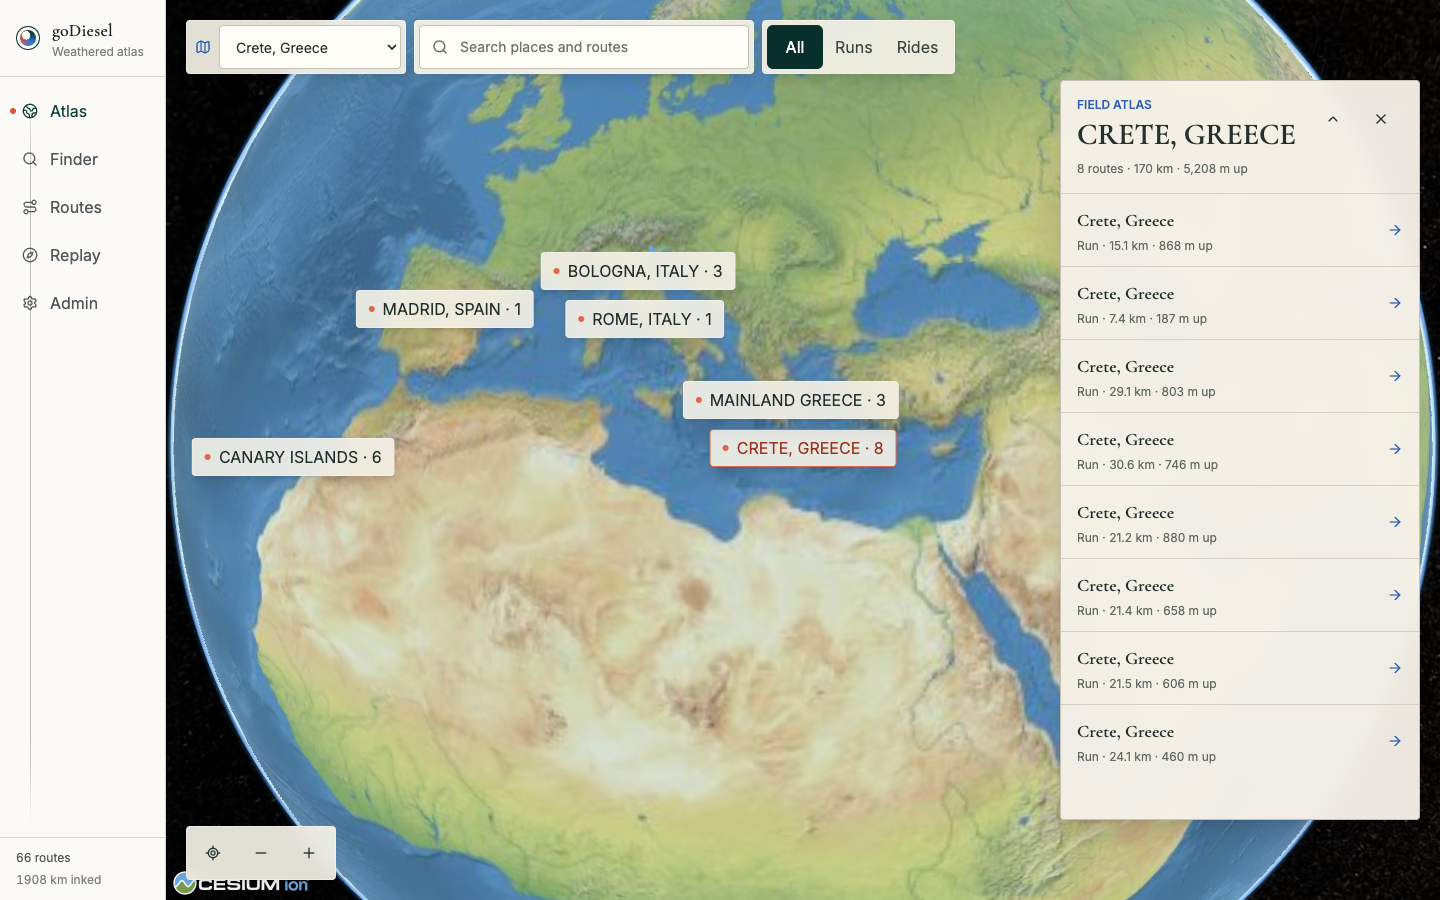
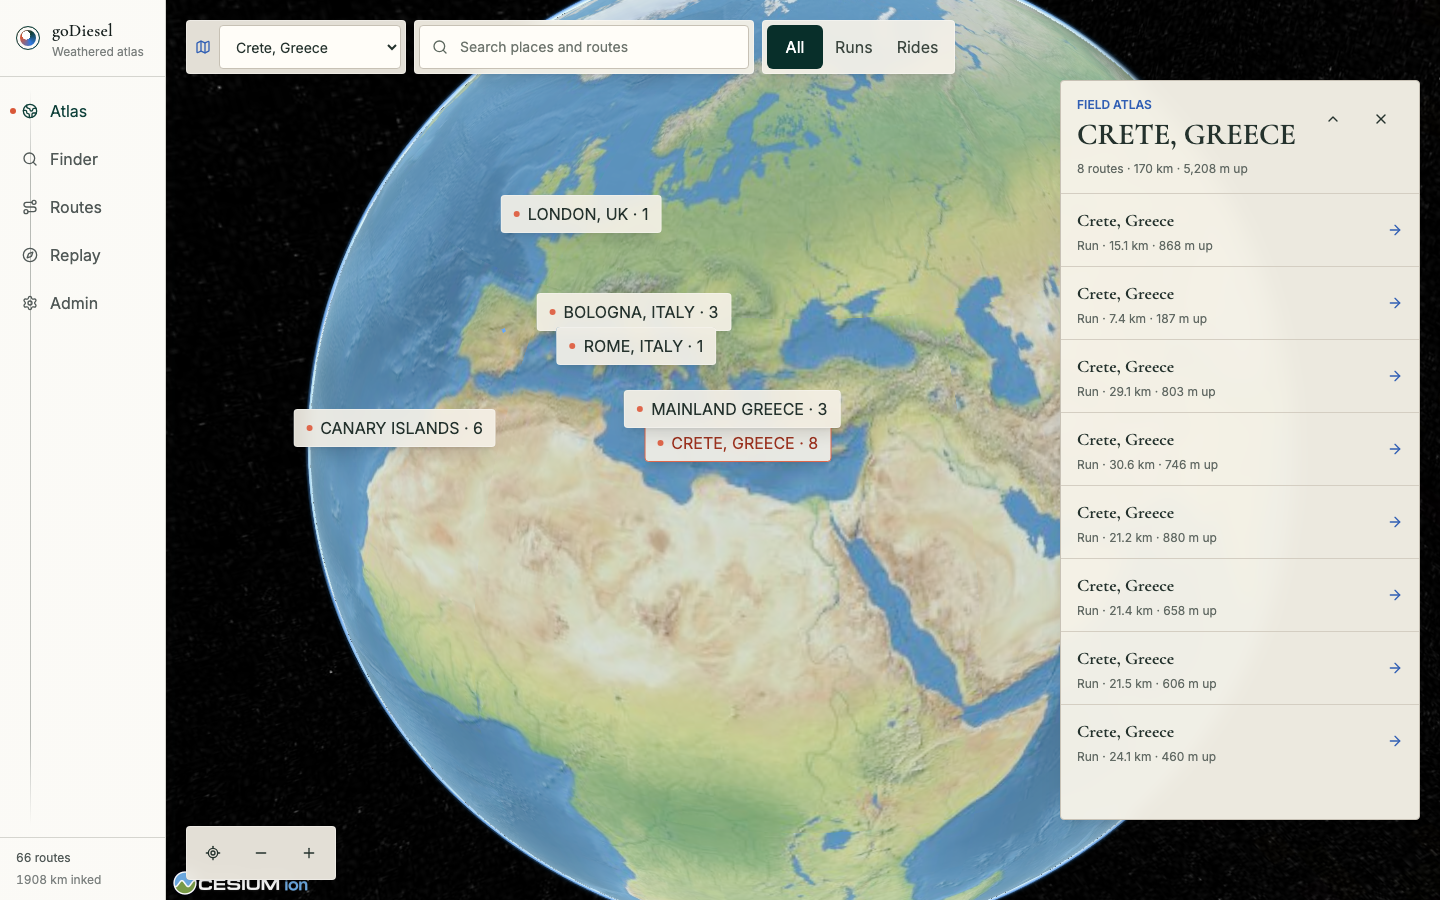
fix(atlas): harden Cesium world boundary

diff --git a/app/e2e/atlas-cesium.spec.ts b/app/e2e/atlas-cesium.spec.ts
@@ -2,6 +2,7 @@ import { expect, test } from "@playwright/test";
 
 async function installDeterministicCesiumAtlas(page: import("@playwright/test").Page) {
   await page.addInitScript(() => {
+    window.__GODIESEL_ATLAS_WORLD_DESTROY_COUNT__ = 0;
     window.__GODIESEL_ATLAS_WORLD_ENGINE__ = "cesium";
     window.__GODIESEL_ATLAS_WORLD_FACTORY__ = () => {
       let canvas: HTMLCanvasElement | undefined;
@@ -63,7 +64,8 @@ async function installDeterministicCesiumAtlas(page: import("@playwright/test").
         },
         setSelectedRegion(region) {
           selectedRegion = region?.name;
-          cameraTarget = region ? 6_500_000 : 18_500_000;
+          if (canvas) canvas.dataset.cameraRegion = selectedRegion ?? "";
+          cameraTarget = 18_500_000;
           syncCamera();
         },
         projectRegions() {
@@ -87,6 +89,7 @@ async function installDeterministicCesiumAtlas(page: import("@playwright/test").
           syncCamera();
         },
         destroy() {
+          window.__GODIESEL_ATLAS_WORLD_DESTROY_COUNT__ += 1;
           canvas?.remove();
         },
       };
@@ -129,11 +132,12 @@ for (const viewport of [
       .poll(() => new URLSearchParams(new URL(page.url()).hash.split("?")[1]).get("region"))
       .toBe(region);
     await expect(page.getByRole("heading", { name: region! })).toBeVisible();
-    await expect(canvas).toHaveAttribute("data-camera-target", "6500000");
+    await expect(canvas).toHaveAttribute("data-camera-region", region!);
+    await expect(canvas).toHaveAttribute("data-camera-target", "18500000");
 
     await canvas.focus();
     await page.keyboard.press("ArrowRight");
-    await expect(canvas).toHaveAttribute("data-camera-target", "6500010");
+    await expect(canvas).toHaveAttribute("data-camera-target", "18500010");
 
     const beforeZoom = Number(await canvas.getAttribute("data-camera-target"));
     await page.getByRole("button", { name: "Zoom in" }).click();
@@ -145,6 +149,7 @@ for (const viewport of [
 
 test("Cesium failure preserves Atlas through the Three.js fallback", async ({ page }) => {
   await page.addInitScript(() => {
+    window.__GODIESEL_ATLAS_WORLD_DESTROY_COUNT__ = 0;
     window.__GODIESEL_ATLAS_WORLD_ENGINE__ = "cesium";
     window.__GODIESEL_ATLAS_WORLD_FACTORY__ = () => ({
       async mount({ onStatus }) {
@@ -155,7 +160,9 @@ test("Cesium failure preserves Atlas through the Three.js fallback", async ({ pa
       zoomIn() {},
       zoomOut() {},
       resetView() {},
-      destroy() {},
+      destroy() {
+        window.__GODIESEL_ATLAS_WORLD_DESTROY_COUNT__ += 1;
+      },
     });
   });
   await page.goto("/#/atlas?region=Kyoto%2C+Japan");
@@ -164,6 +171,9 @@ test("Cesium failure preserves Atlas through the Three.js fallback", async ({ pa
   await expect(page.getByText("Cesium world unavailable. Showing the classic Atlas.")).toBeVisible();
   await expect(page.getByRole("heading", { name: "Kyoto, Japan" })).toBeVisible();
   await expect(page).toHaveURL(/region=Kyoto%2C\+Japan/);
+  await expect
+    .poll(() => page.evaluate(() => window.__GODIESEL_ATLAS_WORLD_DESTROY_COUNT__))
+    .toBe(1);
 });
 
 test("Cesium enters a region selected by the initial URL", async ({ page }) => {
@@ -171,6 +181,47 @@ test("Cesium enters a region selected by the initial URL", async ({ page }) => {
   await page.goto("/#/atlas?region=Kyoto%2C+Japan");
 
   const canvas = page.getByLabel("Interactive route globe");
-  await expect(canvas).toHaveAttribute("data-camera-target", "6500000");
+  await expect(canvas).toHaveAttribute("data-camera-region", "Kyoto, Japan");
+  await expect(canvas).toHaveAttribute("data-camera-target", "18500000");
   await expect(page.getByRole("heading", { name: "Kyoto, Japan" })).toBeVisible();
 });
+
+test("search, keyboard, and wheel input share the Cesium camera target", async ({
+  page,
+}) => {
+  await installDeterministicCesiumAtlas(page);
+  await page.goto("/#/atlas");
+
+  const canvas = page.getByLabel("Interactive route globe");
+  const search = page.getByRole("textbox", {
+    name: "Search regions, routes, replay-worthy days",
+  });
+  await search.fill("kyoto");
+  await page.getByRole("button", { name: /Kyoto, Japan2 routes/i }).click();
+  await expect(canvas).toHaveAttribute("data-camera-region", "Kyoto, Japan");
+  await expect(canvas).toHaveAttribute("data-camera-target", "18500000");
+
+  await canvas.focus();
+  await page.keyboard.press("ArrowRight");
+  await expect(canvas).toHaveAttribute("data-camera-target", "18500010");
+  await canvas.dispatchEvent("wheel", { deltaY: 500 });
+  await expect(canvas).toHaveAttribute("data-camera-target", "18500510");
+});
+
+test("Cesium releases its renderer when Atlas unmounts", async ({ page }) => {
+  await installDeterministicCesiumAtlas(page);
+  await page.goto("/#/atlas");
+  await expect(page.getByLabel("Interactive route globe")).toBeVisible();
+
+  await page.getByRole("link", { name: "Finder" }).click();
+  await expect(page).toHaveURL(/#\/finder/);
+  await expect
+    .poll(() => page.evaluate(() => window.__GODIESEL_ATLAS_WORLD_DESTROY_COUNT__))
+    .toBe(1);
+});
+
+declare global {
+  interface Window {
+    __GODIESEL_ATLAS_WORLD_DESTROY_COUNT__: number;
+  }
+}

diff --git a/app/src/components/globe/cesium-atlas-globe.tsx b/app/src/components/globe/cesium-atlas-globe.tsx
@@ -70,7 +70,6 @@ export const CesiumAtlasGlobe = forwardRef<
   }, [selectedRegion]);
 
   useEffect(() => {
-    let frame = 0;
     const updateLabels = () => {
       const projections = engineRef.current?.projectRegions() ?? [];
       const projectionByName = new Map(
@@ -108,10 +107,10 @@ export const CesiumAtlasGlobe = forwardRef<
         label.style.display = visible.has(region.name) ? "flex" : "none";
         label.dataset.active = String(selectedRegion?.name === region.name);
       });
-      frame = requestAnimationFrame(updateLabels);
     };
-    frame = requestAnimationFrame(updateLabels);
-    return () => cancelAnimationFrame(frame);
+    updateLabels();
+    const interval = window.setInterval(updateLabels, 80);
+    return () => window.clearInterval(interval);
   }, [regions, selectedRegion]);
 
   return (
@@ -135,7 +134,7 @@ export const CesiumAtlasGlobe = forwardRef<
             data-globe-region={region.name}
             aria-label={`Select ${region.name} on globe`}
             onClick={() => onSelectRegion(region)}
-            className="pointer-events-auto absolute hidden -translate-x-1/2 -translate-y-1/2 items-center gap-2 whitespace-nowrap rounded-sm border border-white/30 bg-[#f6f2e8]/90 px-3 py-1.5 text-[11px] font-semibold uppercase text-[#24322d] shadow-lg backdrop-blur transition-colors hover:border-[#315fb4] hover:text-[#183a76] data-[active=true]:border-[#df674b] data-[active=true]:text-[#9b321f]"
+            className="pointer-events-auto absolute hidden -translate-x-1/2 -translate-y-1/2 items-center gap-2 whitespace-nowrap rounded-sm border border-white/30 bg-[#f6f2e8]/90 px-3 py-1.5 text-[11px] font-semibold uppercase text-[#24322d] shadow-lg backdrop-blur transition-colors hover:border-[#315fb4] hover:text-[#183a76] focus-visible:outline-none focus-visible:ring-2 focus-visible:ring-[#315fb4] focus-visible:ring-offset-2 focus-visible:ring-offset-[#02070a] data-[active=true]:border-[#df674b] data-[active=true]:text-[#9b321f]"
           >
             <span className="size-1.5 rounded-full bg-[#df674b]" />
             {region.name} · {region.routes.length}

diff --git a/app/src/atlas/cesium-atlas-world-engine.ts b/app/src/atlas/cesium-atlas-world-engine.ts
@@ -23,7 +23,7 @@ import {
 import type { RouteRegion } from "@/data/route-regions";
 
 const DEFAULT_VIEW = { lat: 24, lng: 12, heightM: 18_500_000 };
-const SELECTED_VIEW_HEIGHT_M = 6_500_000;
+const GLOBAL_SELECTION_HEIGHT_M = DEFAULT_VIEW.heightM;
 const ROUTE_COLOR = Color.fromCssColorString("#62a7ff");
 const SELECTED_ROUTE_COLOR = Color.fromCssColorString("#df674b");
 
@@ -94,6 +94,12 @@ export class CesiumAtlasWorldEngine implements AtlasWorldEngine {
       viewer.canvas.setAttribute(
         "aria-keyshortcuts",
         "ArrowLeft ArrowRight ArrowUp ArrowDown + -",
+      );
+      viewer.canvas.classList.add(
+        "focus-visible:outline-none",
+        "focus-visible:ring-2",
+        "focus-visible:ring-inset",
+        "focus-visible:ring-[#f6f2e8]",
       );
       viewer.canvas.tabIndex = 0;
       viewer.canvas.dataset.atlasEngine = "cesium";
@@ -172,6 +178,7 @@ export class CesiumAtlasWorldEngine implements AtlasWorldEngine {
         : new ColorMaterialProperty(ROUTE_COLOR.withAlpha(region ? 0.32 : 0.92));
     });
     if (!region) {
+      viewer.canvas.dataset.cameraRegion = "";
       this.resetView();
       return;
     }
@@ -179,12 +186,13 @@ export class CesiumAtlasWorldEngine implements AtlasWorldEngine {
       destination: Cartesian3.fromDegrees(
         region.centerLng,
         region.centerLat,
-        SELECTED_VIEW_HEIGHT_M,
+        GLOBAL_SELECTION_HEIGHT_M,
       ),
       orientation: new HeadingPitchRoll(0, -CesiumMath.PI_OVER_TWO, 0),
       duration: 0.75,
     });
-    viewer.canvas.dataset.cameraTarget = SELECTED_VIEW_HEIGHT_M.toFixed(0);
+    viewer.canvas.dataset.cameraRegion = region.name;
+    viewer.canvas.dataset.cameraTarget = GLOBAL_SELECTION_HEIGHT_M.toFixed(0);
   }
 
   projectRegions(): AtlasRegionProjection[] {

diff --git a/app/src/atlas/cesium-atlas-world-engine.test.ts b/app/src/atlas/cesium-atlas-world-engine.test.ts
@@ -1,0 +1,36 @@
+import { describe, expect, it, vi } from "vitest";
+
+import { CesiumAtlasWorldEngine } from "@/atlas/cesium-atlas-world-engine";
+
+describe("CesiumAtlasWorldEngine", () => {
+  it("releases Cesium listeners, keyboard input, and the viewer", () => {
+    const removeRenderErrorListener = vi.fn();
+    const removeCameraChangedListener = vi.fn();
+    const removeEventListener = vi.fn();
+    const destroyViewer = vi.fn();
+    const keyDownHandler = vi.fn();
+    const viewer = {
+      canvas: { removeEventListener },
+      isDestroyed: () => false,
+      destroy: destroyViewer,
+    };
+    const engine = new CesiumAtlasWorldEngine();
+
+    Object.assign(engine, {
+      viewer,
+      removeRenderErrorListener,
+      removeCameraChangedListener,
+      keyDownHandler,
+    });
+
+    engine.destroy();
+
+    expect(removeRenderErrorListener).toHaveBeenCalledOnce();
+    expect(removeCameraChangedListener).toHaveBeenCalledOnce();
+    expect(removeEventListener).toHaveBeenCalledWith("keydown", keyDownHandler);
+    expect(destroyViewer).toHaveBeenCalledOnce();
+
+    engine.destroy();
+    expect(destroyViewer).toHaveBeenCalledOnce();
+  });
+});

diff --git a/docs/dogfood-reports/2026-07-21-issue-86-cesium-atlas.md b/docs/dogfood-reports/2026-07-21-issue-86-cesium-atlas.md
@@ -7,10 +7,11 @@ This report verifies the feature-flagged Cesium global Atlas while retaining the
 ## Automated Gates
 
 - TypeScript build passed.
-- All 88 unit tests passed.
+- All 89 unit tests passed, including direct production-engine teardown coverage.
 - The bundle budget passed with the Cesium world remaining lazy-loaded.
-- The four deterministic Cesium Atlas end-to-end scenarios passed on desktop and mobile.
+- All six deterministic Cesium Atlas end-to-end scenarios passed, including desktop and mobile rendering, search and camera input, provider fallback, direct URL entry, and renderer teardown.
 - All 37 existing Atlas end-to-end scenarios passed against the default Three.js world.
+- The complete application end-to-end gate passed 144 journeys, with only the three intentionally opt-in live Earth provider checks skipped.
 
 ## Live Cesium Evidence
 
@@ -19,8 +20,10 @@ The live browser used `VITE_ATLAS_WORLD_ENGINE=cesium` against the real Cesium r
 - The WebGL canvas rendered nonblank pixels at 1440 by 900 and 390 by 844.
 - All 66 completed route threads were mounted.
 - Collision management left five visible place labels on desktop and two on mobile in the tested view.
-- Selecting Crete updated the URL, opened the matching region guide, and moved the shared camera target from 18,500 km to 6,500 km.
+- Visible labels had no bounding-box collisions, and both region labels and the Cesium canvas exposed visible keyboard focus rings over the world.
+- Selecting Crete updated the URL, opened the matching region guide, and reoriented the shared camera while remaining at global altitude.
 - Wheel zoom, pointer drag, keyboard navigation, and mobile pinch changed the same Cesium camera.
+- Sampled canvas pixels produced 12,665 desktop colors and 16,162 mobile colors, confirming the world was not blank or a static fallback.
 - No page errors or console errors were observed.
 - A synthetic renderer failure restored the Three.js Atlas without losing the selected URL state.
 
